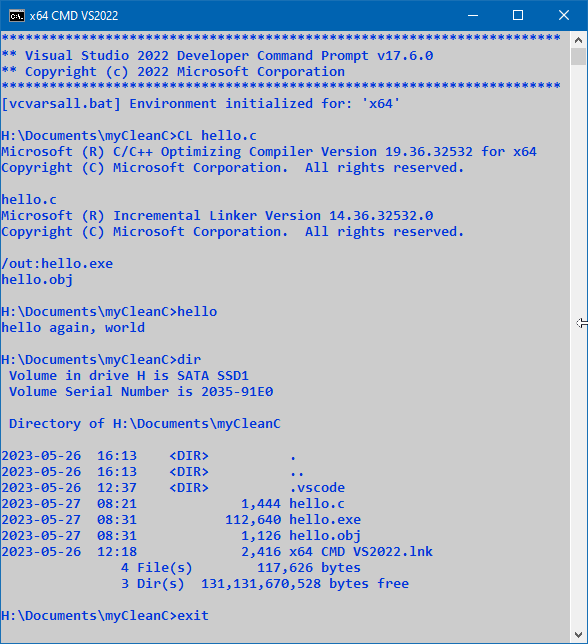
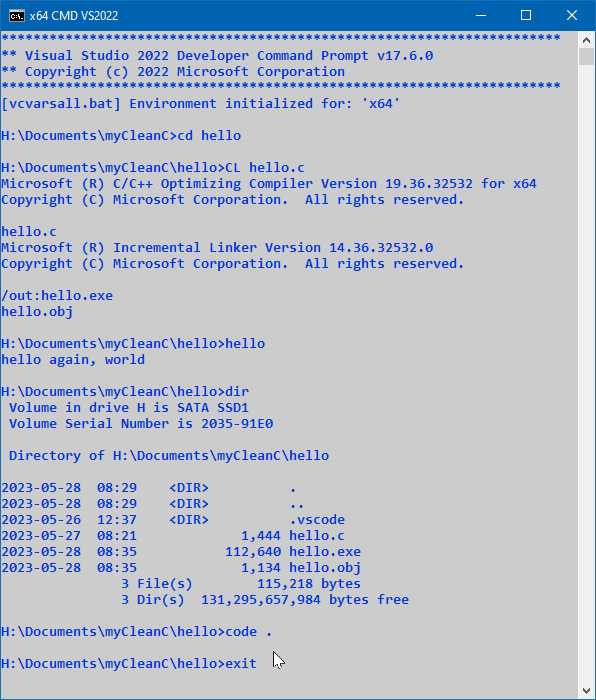
0.0.4 T060101c Full draft #42

Changed region(s): [[0.0, 0.0, 1.0, 0.9627], [0.6429, 0.9006, 0.7041, 0.9317], [0.9796, 0.4969, 1.0, 0.528]]

diff --git a/docs/tools/T060101/c/index.md b/docs/tools/T060101/c/index.md
@@ -1,29 +1,44 @@
-<!-- index.md 0.0.3                UTF-8                          2023-05-27
+<!-- index.md 0.0.4                UTF-8                          2023-05-28
      ----1----|----2----|----3----|----4----|----5----|----6----|----7----|--*
 
                          T060101c: GETTING TO "HELLO"
      -->
 
-# ***T060101c** [Getting to "Hello"](.)*
+# T060101c: [Getting to "Hello"](.)
 
-| ***[nfoTools](../../../)*** | [tools](../../)[>t060101](../)[>c](.) | ***[index.html](index.html) 0.0.3 2023-05-27*** |
+| ***[nfoTools](../../../)*** | [tools](../../)[>t060101](../)[>c](.) | ***[index.html](index.html) 0.0.342023-05-28*** |
 | :--                |       :-:          | --: |
 | ![nfotools](../../../images/nfoWorks-2014-06-02-1702-LogoSmall.png) | Getting to "Hello" | ![Hard Hat Area](../../../images/hardhat-logo.gif)[Construction Zone](T060101c.txt) |
 
 C Language has a famous first program.  Creating and operating that program is sketched, with links to expanded detail that may be needed.
 
+- 1. Install C/C++ Compiler Software
+- 2. Make a Folder for the Work
+- 3. Make the `hello.c` Code
+- 4. Initiate a Command Prompt
+- 5. Compile and Run the Program
+  - 5.1 Navigate to `myCleanC`
+  - 5.2 Compile `hello.c`
+  - 5.3 Observe the compilation
+  - 5.4 Execute the resulting Program
+  - 5.5 Look around in `myCleanC`
+- 6. Looking Down the Road
+  - 6.1 Improved project file organization
+  - 6.2 Customized Command Prompt operation
+  - 6.3 Incorporation of Visual Studio Code
+
 ## 1. Install C/C++ Compiler Software
 
 There is not far to get without having software that compiles C Language
-programs into programs that run on the computer.  In this sketch,
-[Visual Studio Build Tools](../../T211002/) are installed already.
+files into programs that run on the computer.  In this sketch,
+[Visual Studio Build Tools](../../T211002/) are installed and ready for use.
 
 ## 2. Make a Folder for the Work
 
 Create a computer folder for holding your work.  It can be tentative for now.
 Have it in a place for personal data, not in any folder where software is
 installed.  On a Windows PC, the Documents folder of a personal account will
- work; it's preferable on a PC that is shared with others.
+ work; and that's preferable on a PC that is shared with others.
 
  ![Initial myCleanC Folder](T060101c1.png)
 
@@ -38,18 +53,17 @@ installed.  On a Windows PC, the Documents folder of a personal account will
 
 This is the very first program presented in the
 \[[Kernighan1988](..\b\#Kernighan1988)\] book, *The C Programming Language*.
-This program should be typed exactly and saved as file `hello.c` where it
-will be used.  Be exact, character-by-character, line-by-line.
+This program should be typed exactly and saved as file `hello.c`.  Be exact, character-by-character, line-by-line.
 
 There is
 [Hello World lore](https://en.wikipedia.org/wiki/%22Hello,_World!%22_program)
-on all of the ways this "first program" have been accomplished.
+on all of the ways this "first program" has been accomplished.
 
-## 4. Initiate the Compilation Command Prompt
+## 4. Initiate a Command Prompt
 
-In the All Programs option on the Start Menu, find the Visual Studio folder
-and expand it ("v") to find the "x64 Native Tools Command Prompt ..." or
-equivalent wording.  The key element is "x64 Native."  Click that entry.
+In the All Programs option on the Windows Start Menu, find the Visual Studio
+folder and expand it ("v") to find the "x64 Native Tools Command Prompt ..."
+or equivalent wording.  The key element is "x64 Native."  Click that entry.
 
 ![Locating x64 Native Tools Command Prompt](T060101c3.png)
 
@@ -70,7 +84,8 @@ project is.  The command
 cd /D H:\Documents\myCleanC
 ```
 
-changes to the drive and directory where the `hello.c` example is stored.
+changes to the drive and directory where the `hello.c` example is stored in
+this example.
 
 ### 5.2 Compile `hello.c`
 
@@ -82,7 +97,7 @@ CL hello.c
 
 instructs the VC/C++ command-line compiler (CL) to compile `hello.c`
 
-### 5.3 Observe the Compilation
+### 5.3 Observe the compilation
 
 If your `hello.c` is **exactly** the version shown, the compiler
 identification should be followed by the name of the program to compile
@@ -97,7 +112,7 @@ After the linker identification, there will be automatic determination to
 produce `hello.exe` from the file `hello.obj` that was produced by the
 successful compile of `hello.c`.
 
-### 5.4 Execute the resulting Program
+### 5.4 Execute the resulting program
 
 There being no misadventures, the file `hello.exe` is there in `myCleanC`.
 
@@ -131,19 +146,108 @@ intermediate is taken by the linker and combined with needed library and
 setup code to produce `hello.exe` a complete program to carry out the
 operation of the `hello.c` C Language.
 
-The simple 67-character `hello.c` is compiled to a `2,367 byte `hello.obj` of
+The simple 67-character `hello.c` is compiled to a 2,367 byte `hello.obj` of
 native computer code and information on what libraries it depends on.  The
-final, complete, native program is 137,728 bytes of complete executable-format
-code.
+final `hello.exe` is 137,728 bytes of complete executable-format
+code.  It is constructed to be run from a command prompt.
 
-## 6. Down the Road
+## 6. Looking Down the Road
 
+With practice and increasing proficiency, there will be improvements in the
+cycle of programming, compiling, and confirmation.  Along the way there will
+be ways to have project work go more smoothly.
 
+### 6.1 Improved project file organization
 
+To collect projects together in a handy place, the `myCleanC\` folder is
+changed to have individual sub-folders for different programs, starting
+with `myCLeanC\hello\`.
 
+![myCLeanC Organization](T060101c7.png)
 
+Along with this, a shortcut is created for creation of the Command Prompt
+directly at `myCleanC\`.  This will be handy for workng on all of the projects
+that will be placed under `myCleanC\`.
 
+A new Command Prompt right there is initiated by double-clicking the shortcut.
 
+### 6.2 Customized Command Prompt operation
+
+![Compiling the new Hello](T060101c5.png)
+
+As can be seen in this session, the initialized Command Prompt starts
+directly at `myCleanC` and it is a short hop to the `hello` project.
+
+The change in appearance is accomplished by customizing the shortcut.  There
+are many choices available.  It is also possible to alter the prompt text,
+choosing something different than `H:\Documents\myCleanC>` and the like.
+
+Summarizing the commands that were entered,
+
+```CMD
+H:\Documents\myCleanC>cd hello
+H:\Documents\myCleanC\hello>CL hello.c
+H:\Documents\myCleanC\hello>hello
+Hello again, world
+
+H:\Documents\myCleanC\hello\dir
+H:\Documents\myCleanC\hello\code .
+H:\Documents\MyCleanC\hello\exit
+```
+
+The change in the directory reflects changes in the `hello.c` program, which
+have the file be more verbose.  Yet the `hello.obj` and `hello.exe` files are
+smaller than at [5.4], above.
+
+There is also a new component, the subdirectory `.vscode\`.  This is entirely
+for use in conjunction with Visual Studio Code and need not be of any concern.
+It only has effect when Visual Studio code is opened on the `hello\` folder.
+
+### 6.3 Incorporation of Visual Studio Code
+
+The command entry
+
+```CMD
+H:\Documents\myCleanC\hello>code .
+```
+ causes [Visual Studio Code](../../T21001/) to be initiated from within the
+ Command Prompt and oriented to where we are operating (established by the "."
+ parameter).  The benefit of initiating VS Code in this manner is for its
+ recognition of the initialized environment, using it for review and
+ annotation of files that are opened for review and possible editing.
+
+ ![hello.c 0.2.2 in VS Code](T060101c6.png)
+
+ All of the green text is commentary.  Only lines 11-16 provide the C Language
+ code.
+
+ The color highlighting is provided automatically as readability hints of the
+ program's C Language structure.
+
+ The `hello.c` program is now in Clean C.  What makes the difference is the
+ first line,
+
+ ```C
+ int main(void)
+ ```
+
+ Visual Studio Code will recognize various defects in a C Language program.
+ For this `hello.c` none are identified.
+
+ What will become more important is coming to appreciate what is **not**
+ provoking any VS Code commentary.
+
+ - The ```include <stdio.h>``` has been resolved to a file in the VC/C++
+ environment.
+ - The `int main(void)` is recognized as the beginning of a valid main
+ function.
+ - the fputs() matches with the definition in `stdio.h` and the two parameters
+ are of the proper form.
+ - `stdout` is recognized as the indicator of the standard output stream,
+ usually the Command Prompt output, also defined in `stdio.h`.
+
+ All of this built-in checking will be valuable as more programs are
+ developed.
 
 ----
 
@@ -157,6 +261,7 @@ from time to time.
 
 <!-- ----1----|----2----|----3----|----4----|----5----|----6----|----7----|--*
 
+     0.0.4 2023-05-28T20:14Z First full draft
      0.0.3 2023-05-27T21:47Z First draft, sections 1-5
      0.0.2 2023-05-20T23:05Z Touch-ups for T060101/c/ transposition
      0.0.1 2022-06-16T23:14Z improve title header strip
